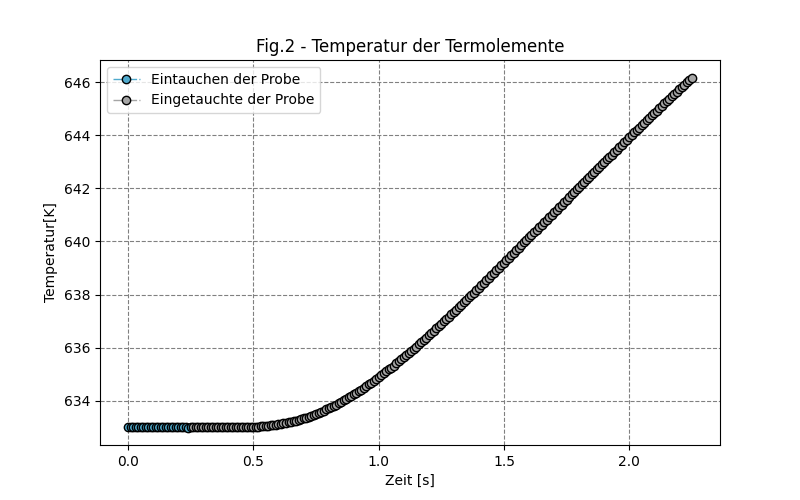
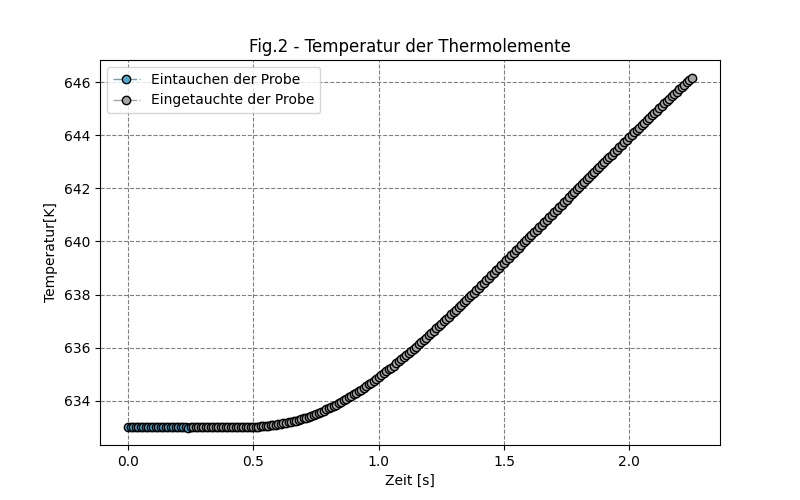
Status 17.05.2023
Version: 2.0.0

- functions file imported

Changed region(s): [[0.3125, 0.06, 0.7188, 0.12]]

diff --git a/main.py b/main.py
@@ -41,7 +41,7 @@ figure_1_2(str('fig1'), str('Fig.1 - Temperatur im Zentrum der Probe'), pic_a2, 
           df['flowtime'], df['temp_center'],str('Eintauchen der Probe'),
            df2['flowtime'], df2['temp_center'],str('Eingetauchte der Probe'))
 
-figure_1_2(str('fig2'), str('Fig.2 - Temperatur der Termolemente'), pic_a2, pic_b2,
+figure_1_2(str('fig2'), str('Fig.2 - Temperatur der Thermolemente'), pic_a2, pic_b2,
           str('Zeit [s]'), str('Temperatur[K]'),
           df3['flowtime'], df3['temp_TEL1'],str('Eintauchen der Probe'),
            df4['flowtime'], df4['temp_TEL1'],str('Eingetauchte der Probe'))
